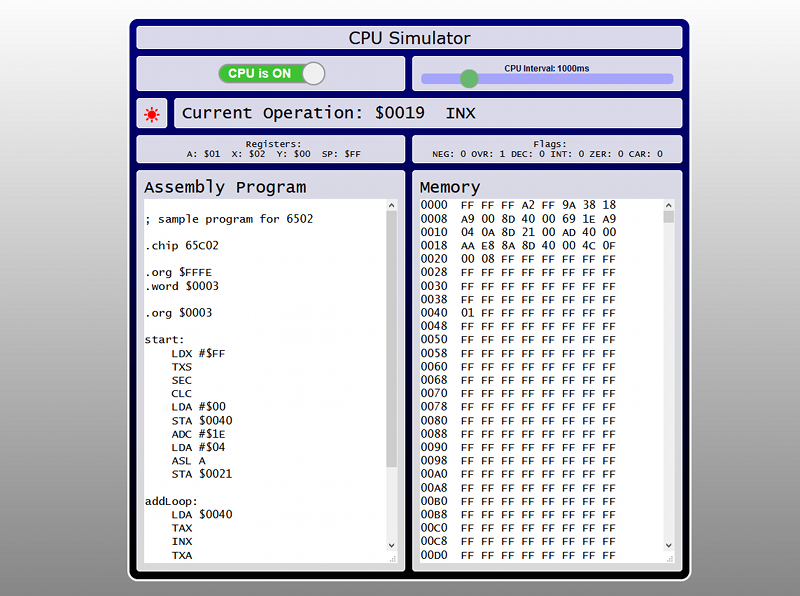
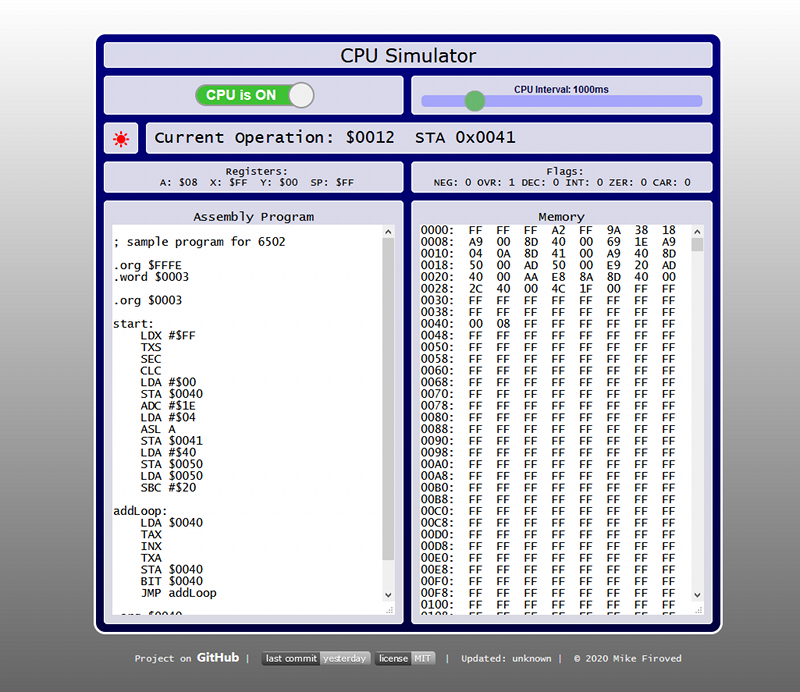
various style updates
Reduced font in labels and textareas
Added custom badges to page
updated screenshot image
added check for invalid date and show unknown

diff --git a/assets/css/style.css b/assets/css/style.css
@@ -11,7 +11,7 @@
         ╚══════════════════════════════════════════════════════════════════════════════════════╝        
     */
     body {
-        background-image: linear-gradient(#FFFFFF, #808080);
+        background-image: linear-gradient(#FFFFFF, #606060);
         height: 100%;
         overflow: hidden;
     }
@@ -29,10 +29,10 @@
     }
 
     #card {
-        background-image: linear-gradient(#000080, #000000);
+        background-image: linear-gradient(#000080, #000040);
         border-radius: 15px;
         border: solid 3px white;
-        height: 800px;
+        height: 766px;
         margin: auto;
         width: 800px;
     }
@@ -44,8 +44,8 @@
     }
 
     #clock {
-        font-size: 22pt;
-        height: 40px;
+        font-size: 20pt;
+        height: 38px;
         text-align: center;
         width: 40px;
     }
@@ -60,8 +60,8 @@
 
     #loader {
         font-family: 'Lucida Console', monospace;
-        font-size: 18pt;
-        height: 40px;
+        font-size: 16pt;
+        height: 38px;
         padding-left: 10px;
         width: auto;
     }
@@ -83,33 +83,35 @@
     }
 
     #assembly {
-        font-size: 18pt;
+        font-size: 12pt;
         font-family: 'Lucida Console', monospace;
         height: 65px;
         padding: 10px;
+        text-align: center;
     }
 
     #prg {
         border-style: none;
-        font-size: 12pt;
+        font-size: 11pt;
         font-family: 'Lucida Console', monospace;
-        height: 520px;
+        height: 500px;
         overflow-y: scroll;
         width: 100%;
     }
 
     #memory {
         font-family: 'Lucida Console', monospace;
-        font-size: 18pt;
+        font-size: 12pt;
         height: 65px;
         padding: 10px;
+        text-align: center;
     }
 
     #mem {
         border-style: none;
         font-family: 'Lucida Console', monospace;
-        font-size: 12pt;
-        height: 520px;
+        font-size: 11pt;
+        height: 500px;
         overflow-y: scroll;
         width: 100%;
     }
@@ -126,6 +128,7 @@
     .footer {
         color: #F0F0F0;
         font-family: 'Lucida Console', monospace;
+        font-size: 9pt;
         margin: auto;
         text-align: center;
         width: 65%;
@@ -136,8 +139,12 @@
         font-family: "Segoe UI", Helvetica, Arial, sans-serif;
         font-weight: bold;
         text-decoration: none;
+        font-size: 12pt;
     }
 
+    .footer a img {
+        vertical-align: middle;
+    }
 
 
     /* proto.io/freebies/onoff */

diff --git a/assets/js/cpu.js b/assets/js/cpu.js
@@ -784,10 +784,10 @@ self.writeMemory = () => {
             if (memIndex == 0 || ((memIndex / 8) == Math.floor(memIndex / 8))) {
                 if (memIndex != 0) { memText += "\n"; }
                 memText += ("0000" + memIndex.toString(16).toUpperCase()).substr(-4, 4);
-                memText += "  ";
+                memText += ":  ";
             }
             memText += ("00" + memValue.toString(16).toUpperCase()).substr(-2, 2);
-            memText += " ";
+            memText += "  ";
         }
     );
     self.mem.value = memText;
@@ -1589,9 +1589,13 @@ self.cpuInterval.value = defaultIntervalValue;
 self.updateSpeed(defaultIntervalValue);
 
 // set dynamic content
-const now = new Date();
-self.currentYear.innerHTML = now.getFullYear();
-self.DateUpdated.innerHTML = (new Date(self.DateUpdated.innerHTML)).toLocaleString().replace(',', '');
+const dateCurrent = new Date();
+const dateUpdated = new Date(self.DateUpdated.innerHTML);
+self.currentYear.innerHTML = dateCurrent.getFullYear();
+self.DateUpdated.innerHTML = dateUpdated.toLocaleString().replace(',', '');
+if(!(dateUpdated instanceof Date && isFinite(dateUpdated))) {
+    self.DateUpdated.innerHTML = "unknown";
+}
 
 // PRG On Change - sets the onchange event function handler
 self.prg.onchange = () => {

diff --git a/index.html b/index.html
@@ -65,7 +65,16 @@
     </div>
     <br>
     <div class="footer">
-        This project is on <a href="https://github.com/msfwebdude/javascript-cpu-simulator">GitHub</a>&nbsp;|&nbsp;Updated&nbsp;on&nbsp;<span id="DateUpdated">{DateUpdated}</span>&nbsp;|&nbsp;&copy;&nbsp;<span id="currentYear"></span>&nbsp;Mike&nbsp;Firoved
+        Project on <a href="https://github.com/msfwebdude/javascript-cpu-simulator" target="_blank">GitHub</a>&nbsp;|&nbsp;
+        <a href="https://github.com/msfwebdude/javascript-cpu-simulator" target="_blank">
+            <img alt="GitHub last commit" src="https://img.shields.io/github/last-commit/msfwebdude/javascript-cpu-simulator?color=silver&style=plastic">
+        </a>
+        <a href="https://github.com/msfwebdude/javascript-cpu-simulator/blob/master/LICENSE" target="_blank">
+            <img src="https://img.shields.io/github/license/msfwebdude/javascript-cpu-simulator?color=silver&style=plastic" alt="GitHub">
+        </a>&nbsp;|&nbsp;
+        Updated:&nbsp;<span id="DateUpdated">{DateUpdated}</span>&nbsp;|&nbsp;
+        &copy;&nbsp;<span id="currentYear"></span>&nbsp;Mike&nbsp;Firoved
+        
     </div>
     <p><br></p>
     <script type="text/javascript" src="assets/js/cpu.js"></script>
